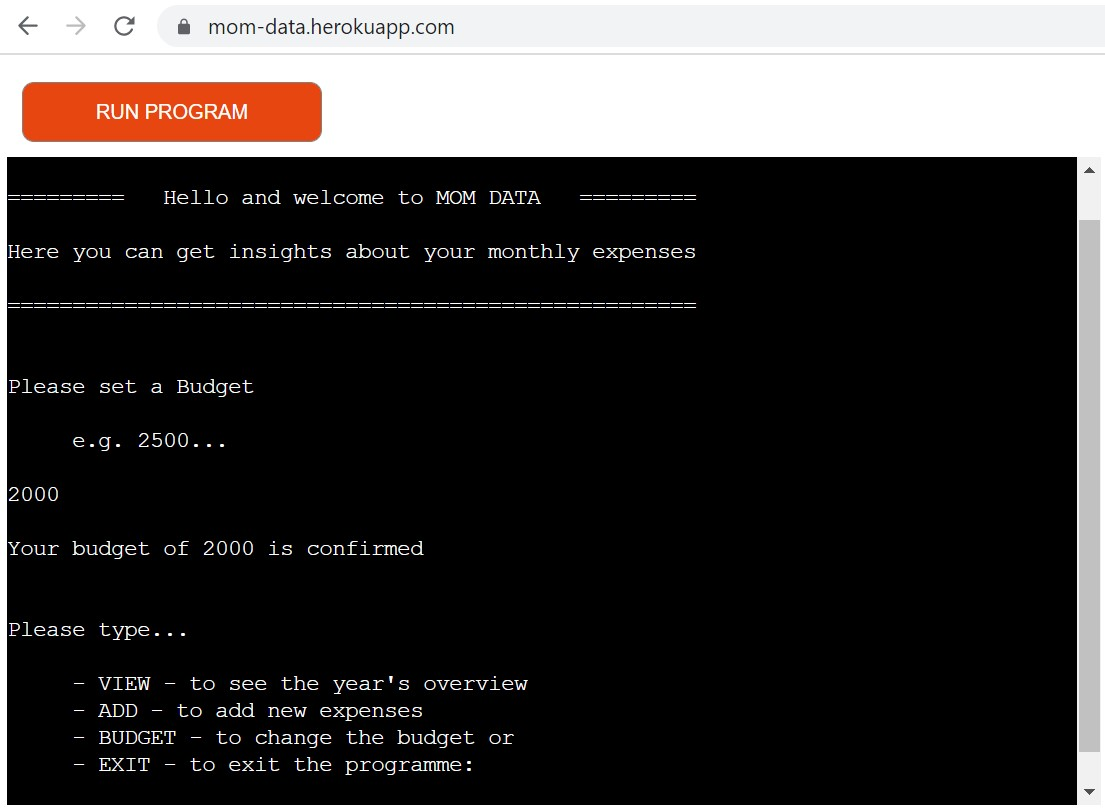
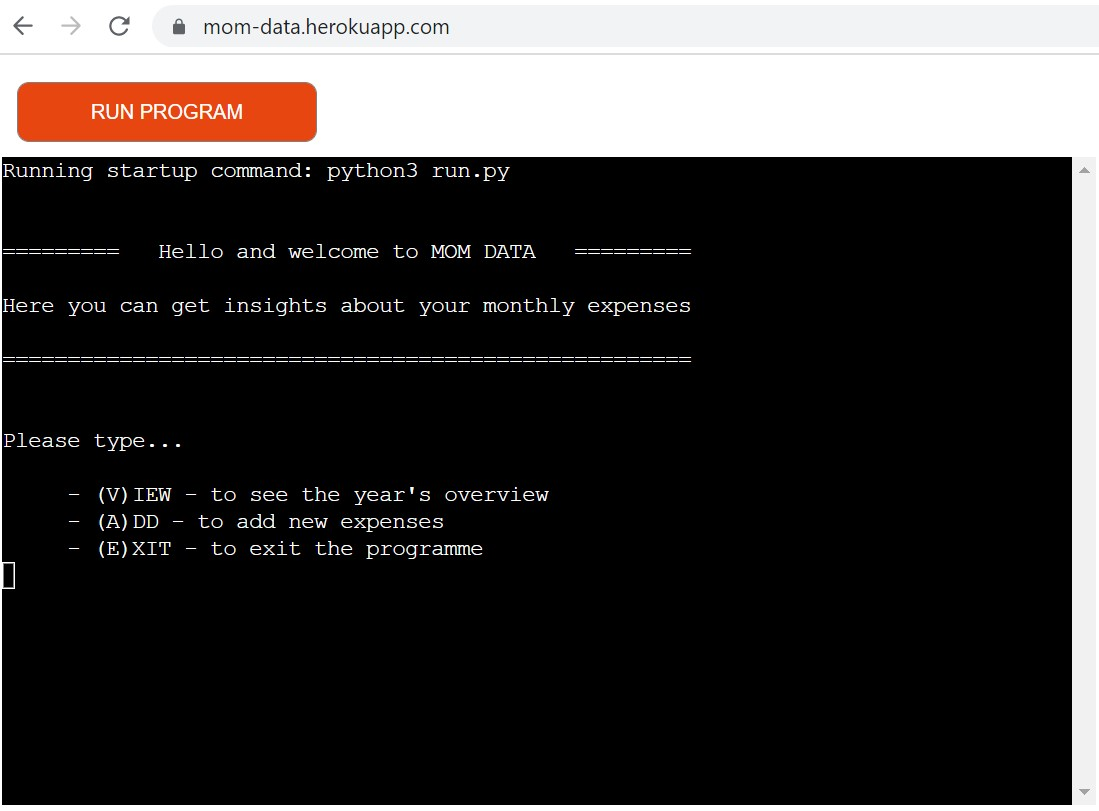
Update the project description with some information about the user

diff --git a/README.md b/README.md
@@ -1,9 +1,11 @@
 # Mom Data
 ## Budget Analysing Tool for the Whole Family
-Mom Data is a user-freindly application for storing, retrieveing and calculating major life expense categories: Food, Transport, Accomodation and Clothing.
-The application populates a database from user input, calculates the sum of the monthly expenses and compares it to the given budget.
 
-This project is an application developed in Python, that runs in a command-line and is visually presented through the Heroku platform.
+Mom Data is a user-freindly application for storing, retrieveing and calculating major life expense categories: Food, Transport, Accomodation and Clothing. Mom Data is for family budget keepers. It aims to provide a clear overview on their monthly expenses thorough the year. 
+
+The application populates a database from user input, calculates the sum of the monthly expenses and compares it to the given budget. It gives a clear user guidance and feedback about the inputs, checks the data to be valid and that the programme flows uninterupted until the user choses to end it.
+
+This is the third Portfolio Project in frames of Code Institute Full Stack Web Developer Course Assessment. It is for educational purposes, is developed in Python programming language, that runs in a command-line terminal that is visually presented through the Heroku platform. Further tools and languages will be implemented for the consequent projects.
 
 :point_down: Click the link below for the live view: 
 
@@ -28,14 +30,12 @@ This project is an application developed in Python, that runs in a command-line 
 
 ## Features
 - Welcoming introduction
-- Setting the budget
 
 <img width="100%" alt="Main Menu" src="assets/main_menu.jpg">
 
 - Main menu
     - VIEW
     - ADD
-    - BUDGET
     - EXIT
 
 - View the year's overview
